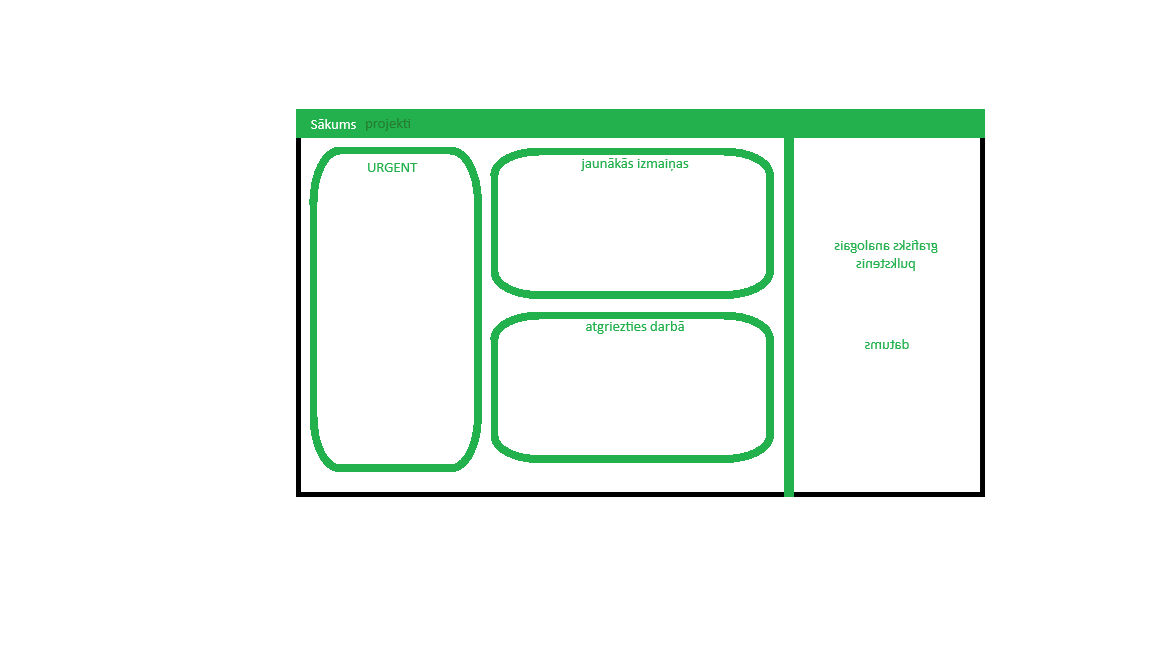
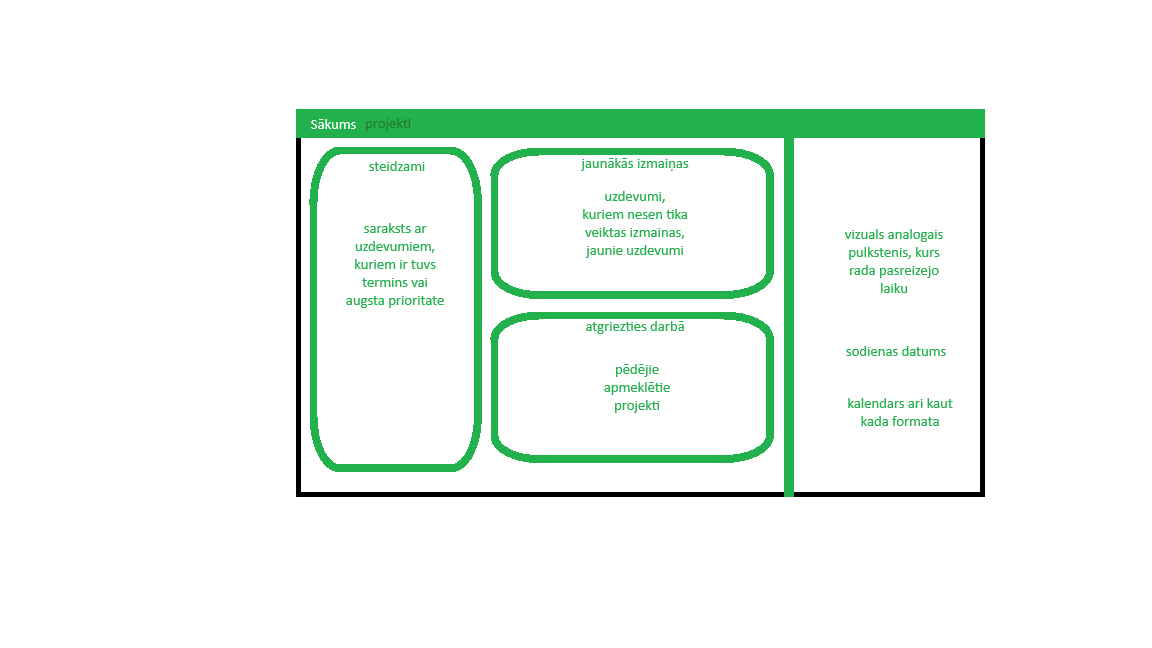
Labaks state, projektu sadaļa

diff --git a/src/scripts/script.js b/src/scripts/script.js
@@ -1,57 +1,85 @@
-import tasks from "./data.json" with { type:"json" };
+let state = JSON.parse(localStorage.getItem("tudu")) || {projects: [], currentProjectId: null};
+const currentProject = () => state.projects.find(p => p.id === state.currentProjectId);
 
-let data = [];
-const taskList = document.getElementById("task-list");
-
-function changeTemplate(template) {
-    const temp = document.getElementById(template);
-    const clone = temp.content.cloneNode(true);
-    document.body.appendChild(clone);
+function commit() {
+    localStorage.setItem("tudu", JSON.stringify(state));
+    render();
 }
 
-function loadTasks() {
-    for (const task of tasks) {
-        createTask(task);
+
+function createProject() {
+    const title = document.querySelector("input").value;
+    console.log("Project title ");
+    state.projects.push({id: crypto.randomUUID(), title, tasks: []})
+    commit()
+}
+
+function createTask(data) {
+    currentProject.tasks.push({id: crypto.randomUUID, ...data});
+    commit();
+}
+
+function deleteProject() {
+
+}
+
+function deleteTask(id) {
+    const p = currentProject();
+    p.tasks = p.tasks.filter(t => t.id != id);
+    commit();
+}
+
+function openProject(id) {
+    state.currentProjectId = id;
+    commit();
+}
+
+function render() {
+    const view = state.currentProjectId ? "tasks" : "projects";
+    const app = document.getElementById("app");
+    app.replaceChildren(document.getElementById(view).content.cloneNode(true));
+    (view === "projects" ? renderProjects : renderTasks)(app);
+}
+
+function renderProjects(root) {
+    let projectList = root.querySelector("ul");
+    for (const project of state.projects) {
+        const li = document.createElement("li");
+
+        const button = document.createElement("button");
+        button.textContent = project.title;
+        button.addEventListener("click", () => openProject(project.id));
+
+        li.appendChild(button);
+        projectList.appendChild(li);
     }
 }
 
-// this formats the form data into an object for the task creator
-function processTask(form) {
-    createTask(Object.fromEntries(new FormData(form)));
-}
-
-function createTask(task) {
-    if (task.title == "" || task.desc == "") {
-        alert("ievadi uzdevumu");
-        return;
+function renderTasks(root) {
+    let taskList = root.querySelector("ul");
+    const currentProject = currentProject();
+    for (const task of currentProject.tasks) {
+        const li = document.createElement("li");
+        
+        const title = document.createElement("h2");
+        title.textContent = task.title;
+        
+        const desc = document.createElement("p");
+        desc.textContent = task.desc;
+        
+        const date = document.createElement("p");
+        date.textContent = "termiņš: " + task.date;
+        
+        const priority = document.createElement("p");
+        priority.textContent = "prioritāte: " + task.priority;
+        
+        const button = document.createElement("button");
+        button.textContent = "dzest";
+        button.addEventListener("click", () => deleteTask(task.id));
+        
+        li.appendChild(title); li.appendChild(desc); li.appendChild(date); li.appendChild(priority); li.appendChild(button);
+        taskList.appendChild(li);
     }
-
-    const li = document.createElement("li");
-    
-    const title = document.createElement("h2");
-    title.textContent = task.title;
-
-    const desc = document.createElement("p");
-    desc.textContent = task.desc;
-
-    const date = document.createElement("p");
-    date.textContent = "termiņš: " + task.date;
-
-    const priority = document.createElement("p");
-    priority.textContent = "prioritāte: " + task.priority;
-
-    const button = document.createElement("button");
-    button.textContent = "dzest";
-    button.addEventListener("click", () => deleteTask(li, task.title));
-
-    taskList.appendChild(li);
-    li.appendChild(title); li.appendChild(desc); li.appendChild(date); li.appendChild(priority); li.appendChild(button); 
-    data.push({"title": task.title, "desc": task.desc, "date": task.date, "priority": task.priority});
 }
 
-function deleteTask(li, title) {
-    li.remove();
-    for ()
-}
-
-loadTasks();
+render();

diff --git a/src/scripts/oldScript.js b/src/scripts/oldScript.js
@@ -1,0 +1,76 @@
+let state = JSON.parse(localStorage.getItem("tudu")) || {projects: [], currentProjectId: null};
+
+
+
+
+
+
+
+
+
+
+
+
+
+
+
+let tasks = JSON.parse(localStorage.getItem("mansProjekts")) || [];
+const taskList = document.getElementById("task-list");
+
+function changeTemplate(template) {
+    const temp = document.getElementById(template);
+    const clone = temp.content.cloneNode(true);
+    document.body.appendChild(clone);
+}
+
+const checkTaskValidity = (title, desc) => title != "" || desc != "";
+
+function createTask(task) {
+    if (checkTaskValidity(task.title, task.desc)) {
+        tasks.push({"title": task.title, "desc": task.desc, "date": task.date, "priority": task.priority});
+        loadTasks();
+    }
+    else
+        alert("Ievadi uzdevuma nosaukumu vai aprakstu!");
+    
+}
+
+function deleteTask(li, task) {
+    li.remove();
+    tasks.splice(tasks.indexOf(task), 1);
+}
+
+function loadTasks() {
+    taskList.replaceChildren();
+    for (const task of tasks) {
+        const li = document.createElement("li");
+    
+        const title = document.createElement("h2");
+        title.textContent = task.title;
+
+        const desc = document.createElement("p");
+        desc.textContent = task.desc;
+
+        const date = document.createElement("p");
+        date.textContent = "termiņš: " + task.date;
+
+        const priority = document.createElement("p");
+        priority.textContent = "prioritāte: " + task.priority;
+
+        const button = document.createElement("button");
+        button.textContent = "dzest";
+        button.addEventListener("click", () => deleteTask(li, task));
+
+        taskList.appendChild(li);
+        li.appendChild(title); li.appendChild(desc); li.appendChild(date); li.appendChild(priority); li.appendChild(button);
+    }
+}
+
+document.addEventListener("visibilitychange", () => {
+    if (document.visibilityState === "hidden") {
+        localStorage.clear();
+        localStorage.setItem("mansProjekts", JSON.stringify(tasks));
+    }
+});
+
+loadTasks();

diff --git a/src/index.html b/src/index.html
@@ -4,20 +4,28 @@
   <head>
     <meta charset="UTF-8">
     <title>tudu</title>
-    <script type="module" src="./scripts/script.js" defer></script>
+
+    <script src="./scripts/script.js" defer></script>
     <link rel="stylesheet" href="style.css">
   </head>
   <body>
+    <main id="app"></main>
+
     <!-- PROJECTS LIST-->
     <template id="projects">
-      
+      <h1>Projekti</h1>
+      <input id="title" placeholder="ievadi projekta nosaukumu">
+      <button onclick="createProject()">Izveidot projektu</button>
+      <ul></ul>
     </template>
 
     <!-- TASK LIST-->
-      <h1>Mans projekts</h1>
+    <template id="tasks">
+      <button onclick="openProject(null)">Atgriezties atpakal</button>
+      <h1>yo</h1>
       <h2>Uzdevumi</h2>
 
-      <form id="task-form" onsubmit="processTask(this); return false;">
+      <form id="task-form" onsubmit="createTask(Object.fromEntries(new FormData(this))); return false;">
         <input name="title" placeholder="ievadi uzdevumu">
         <input name="desc" placeholder="ievadi aprakstu">
         <input name="date" type="date">
@@ -32,5 +40,6 @@
       </form>
 
       <ul id="task-list"></ul>
+    </template>
   </body>
 </html>

diff --git a/todo.md b/todo.md
@@ -5,3 +5,5 @@
 2. izveidot projektu sadaļu un saglabāt uzdevumus katrā sadaļā
 
 3. saglabat uzdevumus .json faila un saglabat tos
+    3.1 lokala storedžā 
+    3.2 uz php servera
